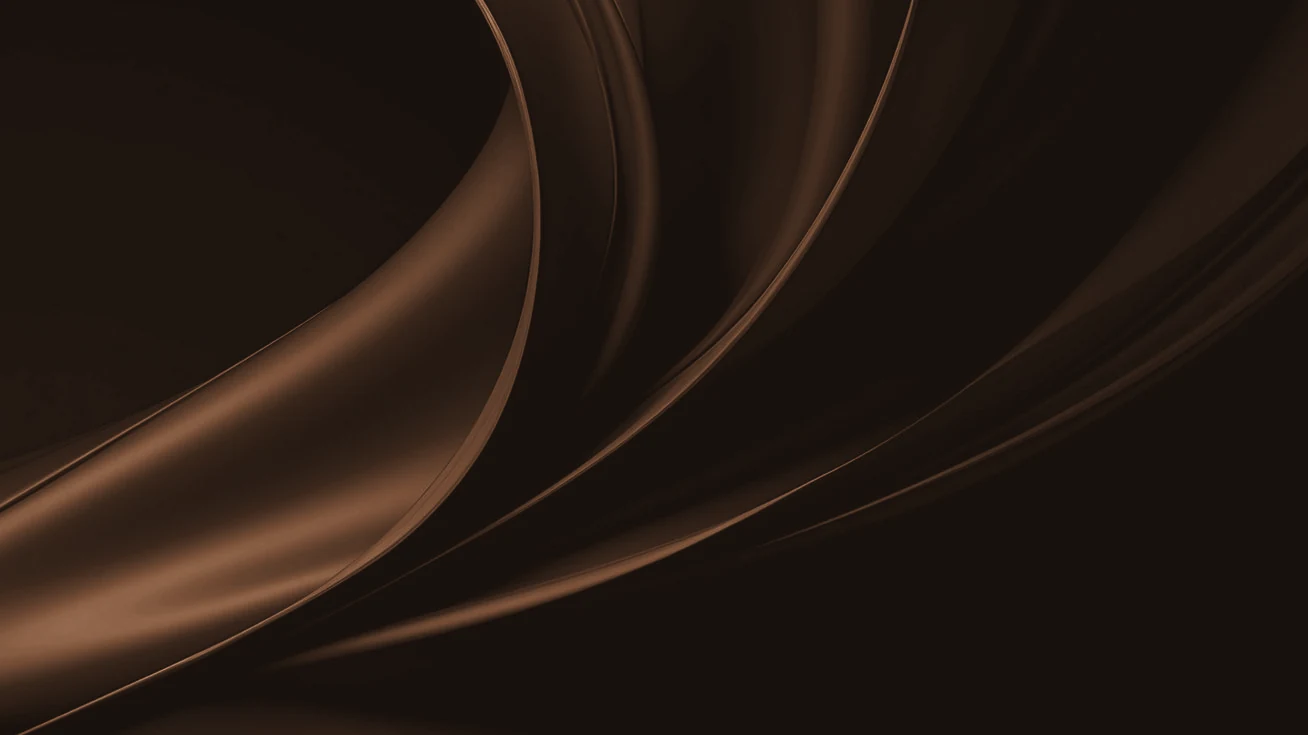
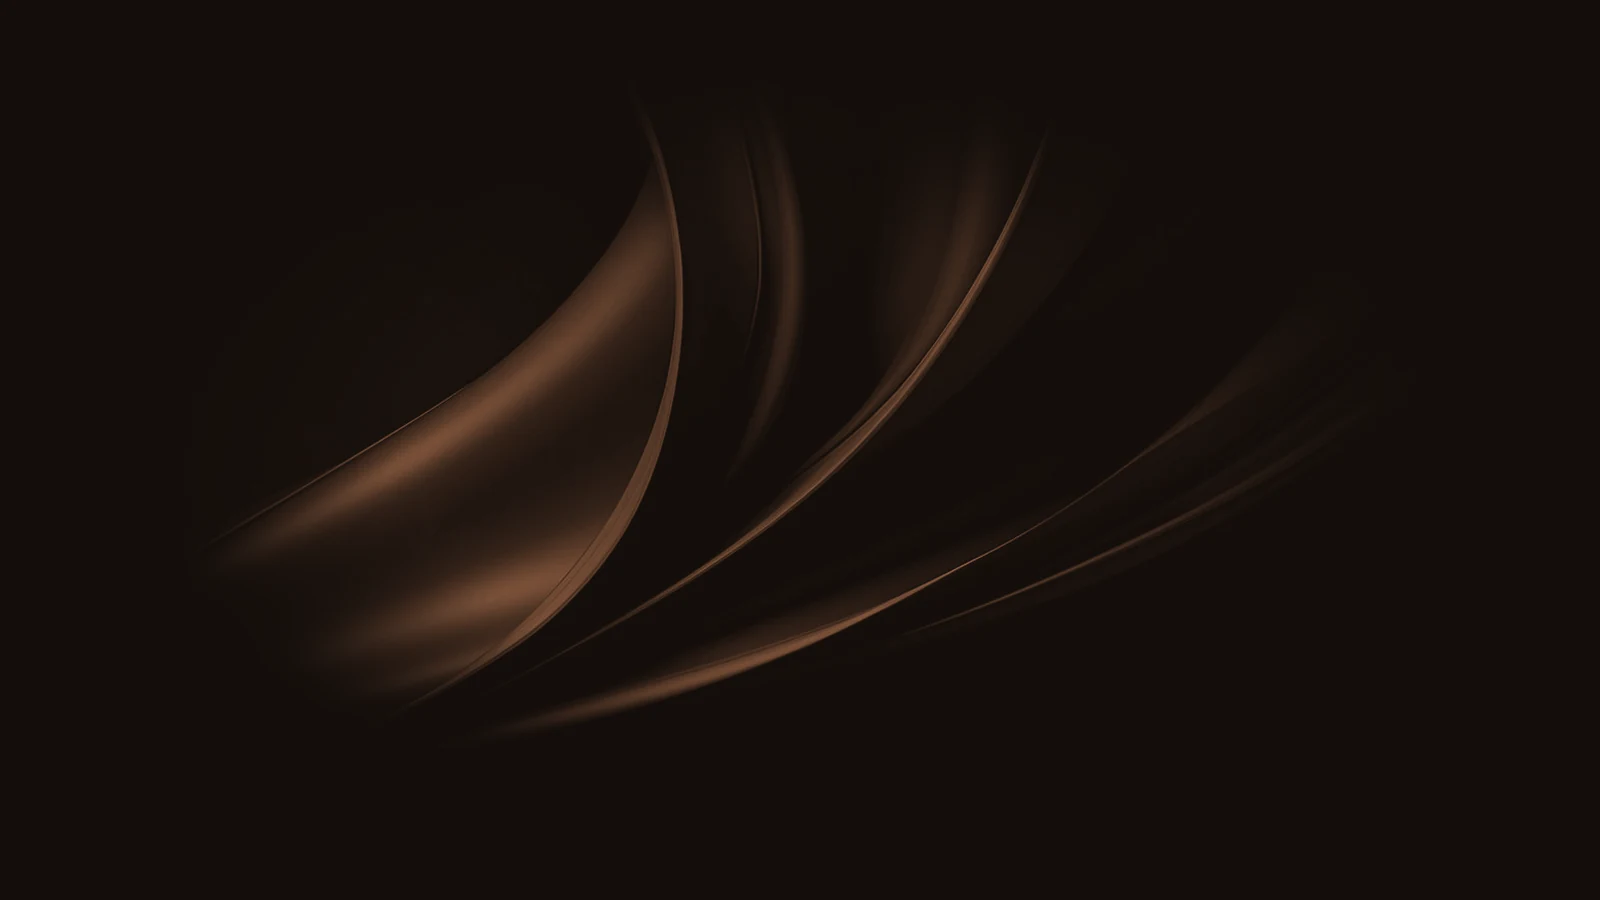
Compact centered silk ribbon framing closer around model

diff --git a/index.html b/index.html
@@ -17,8 +17,8 @@
   <!-- Sculptural Emporium Terracotta-Bronze Silk Editorial Backdrop -->
   <div class="store-backdrop" aria-hidden="true">
     <picture>
-      <source media="(max-width: 960px)" srcset="img/silk-bg-mobile.webp?v=8" />
-      <img class="store-backdrop__img" src="img/silk-bg-desktop.webp?v=8" alt="" />
+      <source media="(max-width: 960px)" srcset="img/silk-bg-mobile.webp?v=9" />
+      <img class="store-backdrop__img" src="img/silk-bg-desktop.webp?v=9" alt="" />
     </picture>
     <div class="store-backdrop__scrim"></div>
     <div class="store-backdrop__aura" id="ambientPrimary"></div>
